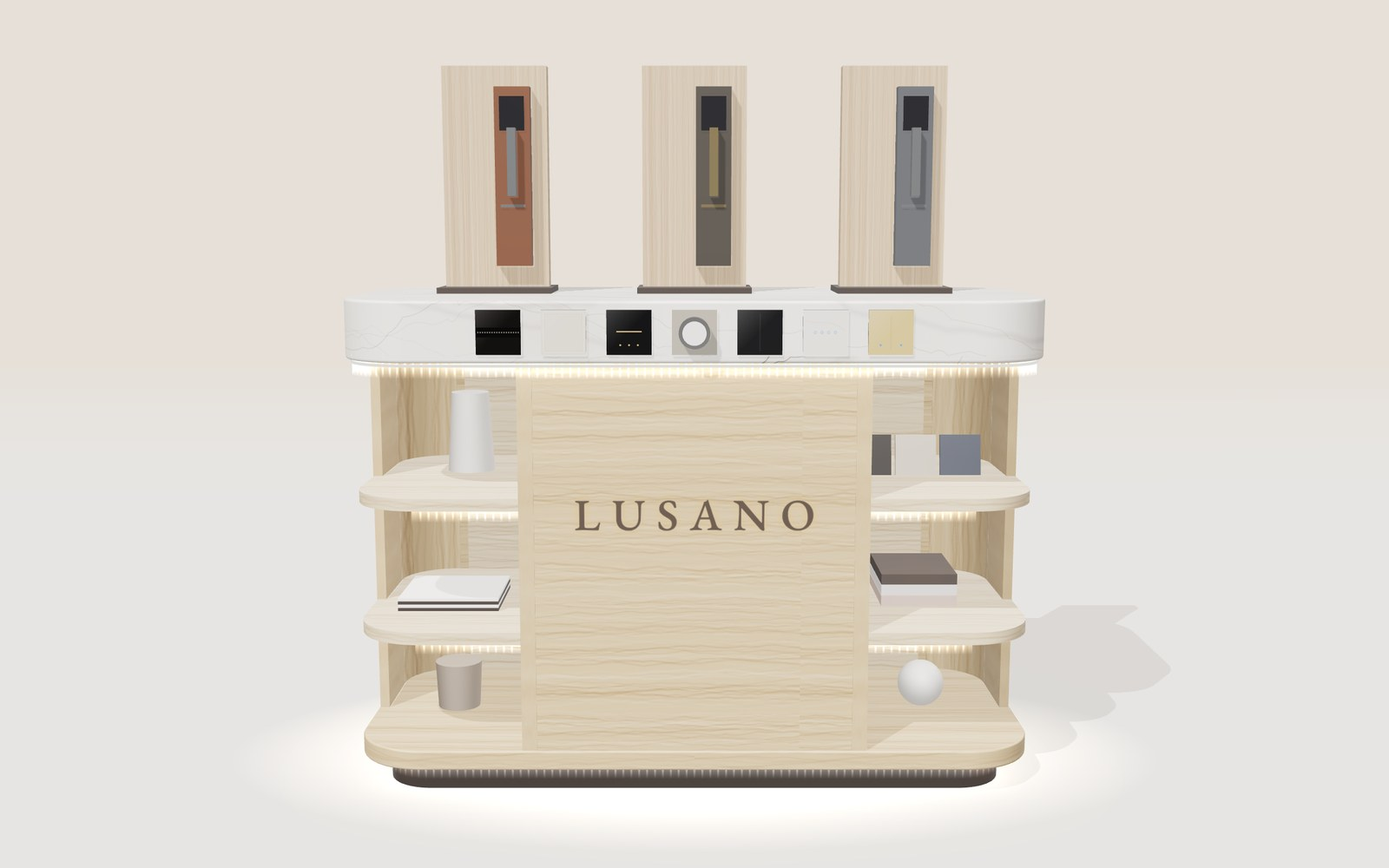
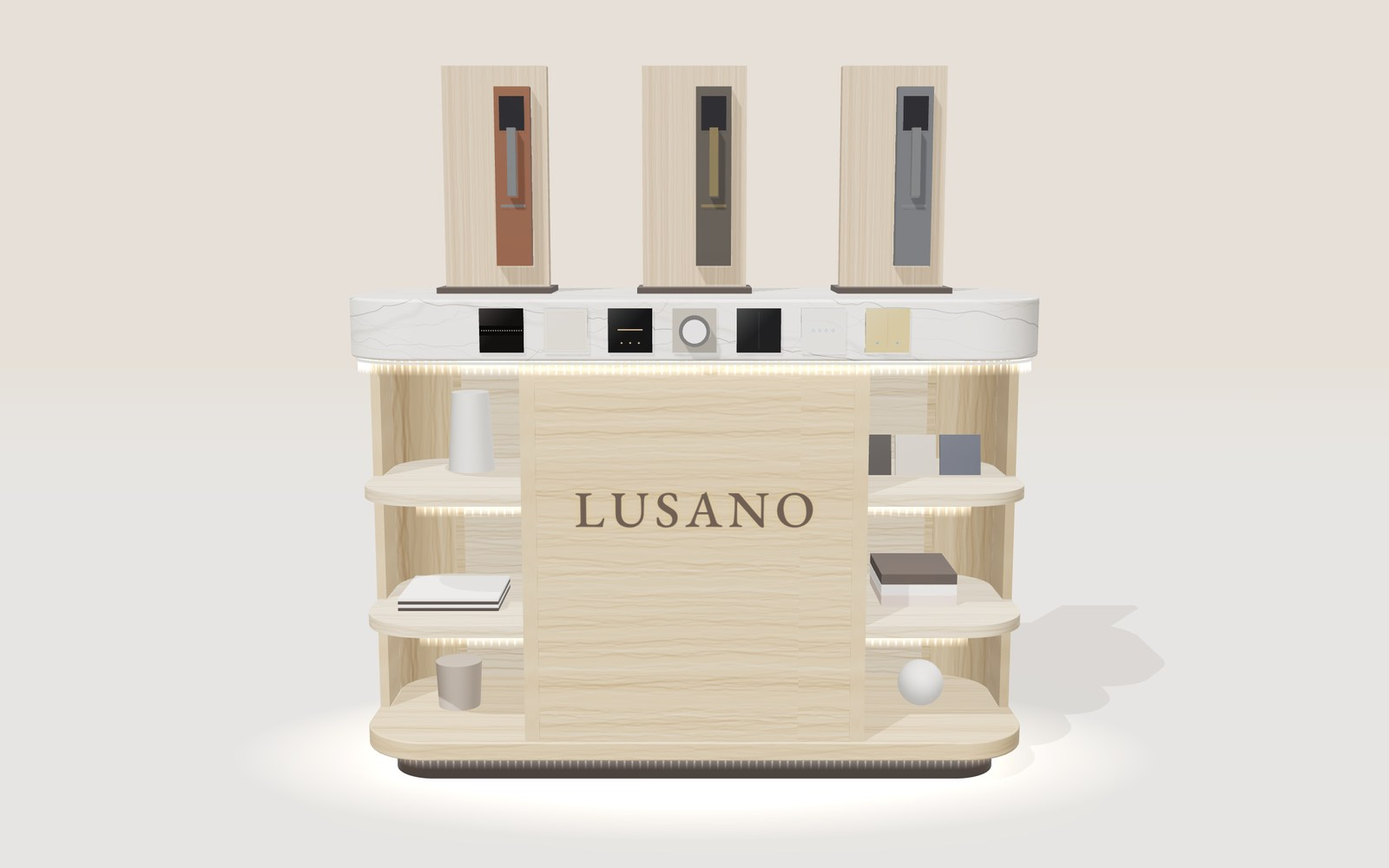
Counter: 500 mm deep, larger LUSANO lettering
Depth goes from 600 to 500 mm. LUSANO now spans 560 mm of the 660 mm
centre panel, with letters about 100 mm tall.

Claude-Session: https://claude.ai/code/session_019F6wLF1dU4g9eZjhze73rB

diff --git a/booth-16x7/table/index.html b/booth-16x7/table/index.html
@@ -73,7 +73,7 @@ text{font-family:var(--sans)}
 .body{fill:var(--bodyc)}
 .inner{fill:var(--innerc)}
 .sw{fill:#29221F;stroke:var(--fg);stroke-width:2}
-.lus{fill:#3A2C24;font-family:var(--serif);font-size:66px;font-weight:500;letter-spacing:18px}
+.lus{fill:#3A2C24;font-family:var(--serif);font-size:120px;font-weight:500}
 .wordlit{fill:#FFE7C2;font-size:58px;font-weight:700;letter-spacing:12px}
 .door{fill:var(--innerc);stroke:var(--fg);stroke-width:2}
 .lockb{fill:#5a2a1b}
@@ -120,7 +120,7 @@ footer{border-top:1px solid var(--rule);padding-top:20px;font-size:13px;color:va
     <h1>The switch counter, <em>in the Maxsen colours.</em></h1>
     <p class="lede">A 1.4 m standing counter with a white marble top: six live smart switches and the Halo dimmer along its front edge, and three Lenovo smart locks on door panels on top. Below, a light wood body with LUSANO in bronze letters, lit from behind, on its closed centre, and identical open shelves curving round both front corners. Addressable RGBCCT LED strips run under the top, under each shelf and under the base.</p>
     <div class="facts">
-      <div><b>1,400 × 600</b><span>length × depth in mm (depth assumed)</span></div>
+      <div><b>1,400 × 500</b><span>length × depth in mm</span></div>
       <div><b>1,000</b><span>height in mm, standing counter</span></div>
       <div><b>6 + Halo</b><span>live switches on the front edge, Halo in the centre</span></div>
       <div><b>RGBCCT IC</b><span>addressable LED: tunable white and full colour</span></div>
@@ -202,10 +202,10 @@ footer{border-top:1px solid var(--rule);padding-top:20px;font-size:13px;color:va
       <h2 id="dwg">To scale, in millimetres</h2>
     </div>
     <div class="drw">
-      <figure class="sheet"><div class="sheet-h"><b>Front</b><span>mm</span></div><div class="scroll"><svg viewBox="-260 -620 2080 1900" class="dwg" role="img" aria-label="Front elevation with dimensions"><rect x="-60" y="1000" width="1520" height="10" class="floor"/><rect x="65" y="940" width="1270" height="58" rx="20" class="bronze"/><rect x="75" y="952" width="1250" height="5" class="led"/><rect x="15" y="120" width="1370" height="820" rx="10" class="body"/><rect x="35" y="140" width="1330" height="760" class="inner"/><rect x="355" y="120" width="30" height="820" class="body"/><rect x="1015" y="120" width="30" height="820" class="body"/><rect x="15" y="900" width="1370" height="40" class="body"/><rect x="385" y="120" width="630" height="820" class="body"/><text x="709" y="440" class="lus" text-anchor="middle">LUSANO</text><rect x="35" y="658" width="320" height="25" class="shelf"/><rect x="1045" y="658" width="340" height="25" rx="6" class="shelf"/><rect x="35" y="388" width="320" height="25" class="shelf"/><rect x="1045" y="388" width="340" height="25" rx="6" class="shelf"/><rect x="0" y="0" width="1400" height="120" rx="8" class="stone"/><rect x="282" y="17" width="86" height="86" rx="4" class="sw"/><rect x="407" y="17" width="86" height="86" rx="4" class="sw"/><rect x="532" y="17" width="86" height="86" rx="4" class="sw"/><rect x="657" y="17" width="86" height="86" rx="4" class="halop"/><circle cx="700" cy="60" r="30" class="halok"/><rect x="782" y="17" width="86" height="86" rx="4" class="sw"/><rect x="907" y="17" width="86" height="86" rx="4" class="sw"/><rect x="1032" y="17" width="86" height="86" rx="4" class="sw"/><rect x="160" y="-12" width="240" height="12" class="bronze"/><rect x="170" y="-472" width="220" height="460" class="door"/><rect x="283" y="-427" width="74" height="370" rx="10" class="lockb"/><rect x="580" y="-12" width="240" height="12" class="bronze"/><rect x="590" y="-472" width="220" height="460" class="door"/><rect x="703" y="-427" width="74" height="370" rx="10" class="lockb"/><rect x="1000" y="-12" width="240" height="12" class="bronze"/><rect x="1010" y="-472" width="220" height="460" class="door"/><rect x="1123" y="-427" width="74" height="370" rx="10" class="lockb"/><rect x="25" y="122" width="1350" height="5" class="led"/><g class="dim"><line x1="0" y1="-560" x2="1400" y2="-560"/><line x1="0" y1="-585" x2="0" y2="-535"/><line x1="1400" y1="-585" x2="1400" y2="-535"/></g><text x="700.0" y="-582" class="td" text-anchor="middle">1,400</text><text x="700" y="1230" class="td" text-anchor="middle">front edge: 6 switches + Halo in the centre</text><g class="dim"><line x1="15" y1="1090" x2="370" y2="1090"/><line x1="15" y1="1065" x2="15" y2="1115"/><line x1="370" y1="1065" x2="370" y2="1115"/></g><text x="192.5" y="1150" class="td" text-anchor="middle">355 curved shelves</text><g class="dim"><line x1="370" y1="1090" x2="1030" y2="1090"/><line x1="370" y1="1065" x2="370" y2="1115"/><line x1="1030" y1="1065" x2="1030" y2="1115"/></g><text x="700.0" y="1150" class="td" text-anchor="middle">660 closed, lit logo</text><g class="dim"><line x1="1030" y1="1090" x2="1385" y2="1090"/><line x1="1030" y1="1065" x2="1030" y2="1115"/><line x1="1385" y1="1065" x2="1385" y2="1115"/></g><text x="1207.5" y="1150" class="td" text-anchor="middle">355 curved shelves</text><g class="dim"><line x1="-60" y1="0" x2="-60" y2="1000"/><line x1="-85" y1="0" x2="-35" y2="0"/><line x1="-85" y1="1000" x2="-35" y2="1000"/></g><text x="-88" y="514.0" class="td" text-anchor="end">1,000</text><g class="dim"><line x1="1460" y1="0" x2="1460" y2="120"/><line x1="1435" y1="0" x2="1485" y2="0"/><line x1="1435" y1="120" x2="1485" y2="120"/></g><text x="1490" y="74.0" class="td" text-anchor="start">120 top</text><text x="1460" y="-300" class="td" text-anchor="start">locks on top</text><g class="dim"><line x1="1460" y1="940" x2="1460" y2="1000"/><line x1="1435" y1="940" x2="1485" y2="940"/><line x1="1435" y1="1000" x2="1485" y2="1000"/></g><text x="1490" y="984.0" class="td" text-anchor="start">60 base</text><text x="1460" y="682" class="td" text-anchor="start">shelf 330</text><text x="1460" y="412" class="td" text-anchor="start">shelf 600</text></svg></div></figure>
-      <figure class="sheet"><div class="sheet-h"><b>End</b><span>mm</span></div><div class="scroll"><svg viewBox="-260 -620 1000 1840" class="dwg narrow" role="img" aria-label="End elevation"><rect x="-60" y="1000" width="720" height="10" class="floor"/><rect x="65" y="940" width="470" height="58" rx="20" class="bronze"/><rect x="75" y="952" width="450" height="5" class="led"/><rect x="15" y="120" width="570" height="820" rx="10" class="body"/><rect x="0" y="0" width="600" height="120" rx="8" class="stone"/><rect x="25" y="122" width="550" height="5" class="led"/><rect x="164" y="-12" width="160" height="12" class="bronze"/><rect x="226" y="-472" width="36" height="460" class="door"/><rect x="262" y="-427" width="32" height="370" class="lockb"/><rect x="600" y="17" width="6" height="86" class="sw"/><g class="dim"><line x1="0" y1="-560" x2="600" y2="-560"/><line x1="0" y1="-585" x2="0" y2="-535"/><line x1="600" y1="-585" x2="600" y2="-535"/></g><text x="300.0" y="-582" class="td" text-anchor="middle">600 (to confirm)</text><g class="dim"><line x1="-60" y1="0" x2="-60" y2="1000"/><line x1="-85" y1="0" x2="-35" y2="0"/><line x1="-85" y1="1000" x2="-35" y2="1000"/></g><text x="-88" y="514.0" class="td" text-anchor="end">1,000</text><rect x="300" y="120" width="285" height="820" class="inner"/><rect x="300" y="658" width="285" height="25" rx="6" class="shelf"/><rect x="300" y="388" width="285" height="25" rx="6" class="shelf"/><text x="158" y="500" class="td" text-anchor="middle">closed</text><text x="442" y="220" class="td" text-anchor="middle">open shelves</text></svg></div></figure>
+      <figure class="sheet"><div class="sheet-h"><b>Front</b><span>mm</span></div><div class="scroll"><svg viewBox="-260 -620 2080 1900" class="dwg" role="img" aria-label="Front elevation with dimensions"><rect x="-60" y="1000" width="1520" height="10" class="floor"/><rect x="65" y="940" width="1270" height="58" rx="20" class="bronze"/><rect x="75" y="952" width="1250" height="5" class="led"/><rect x="15" y="120" width="1370" height="820" rx="10" class="body"/><rect x="35" y="140" width="1330" height="760" class="inner"/><rect x="355" y="120" width="30" height="820" class="body"/><rect x="1015" y="120" width="30" height="820" class="body"/><rect x="15" y="900" width="1370" height="40" class="body"/><rect x="385" y="120" width="630" height="820" class="body"/><text x="420" y="460" class="lus" textLength="560" lengthAdjust="spacing">LUSANO</text><rect x="35" y="658" width="320" height="25" class="shelf"/><rect x="1045" y="658" width="340" height="25" rx="6" class="shelf"/><rect x="35" y="388" width="320" height="25" class="shelf"/><rect x="1045" y="388" width="340" height="25" rx="6" class="shelf"/><rect x="0" y="0" width="1400" height="120" rx="8" class="stone"/><rect x="282" y="17" width="86" height="86" rx="4" class="sw"/><rect x="407" y="17" width="86" height="86" rx="4" class="sw"/><rect x="532" y="17" width="86" height="86" rx="4" class="sw"/><rect x="657" y="17" width="86" height="86" rx="4" class="halop"/><circle cx="700" cy="60" r="30" class="halok"/><rect x="782" y="17" width="86" height="86" rx="4" class="sw"/><rect x="907" y="17" width="86" height="86" rx="4" class="sw"/><rect x="1032" y="17" width="86" height="86" rx="4" class="sw"/><rect x="160" y="-12" width="240" height="12" class="bronze"/><rect x="170" y="-472" width="220" height="460" class="door"/><rect x="283" y="-427" width="74" height="370" rx="10" class="lockb"/><rect x="580" y="-12" width="240" height="12" class="bronze"/><rect x="590" y="-472" width="220" height="460" class="door"/><rect x="703" y="-427" width="74" height="370" rx="10" class="lockb"/><rect x="1000" y="-12" width="240" height="12" class="bronze"/><rect x="1010" y="-472" width="220" height="460" class="door"/><rect x="1123" y="-427" width="74" height="370" rx="10" class="lockb"/><rect x="25" y="122" width="1350" height="5" class="led"/><g class="dim"><line x1="0" y1="-560" x2="1400" y2="-560"/><line x1="0" y1="-585" x2="0" y2="-535"/><line x1="1400" y1="-585" x2="1400" y2="-535"/></g><text x="700.0" y="-582" class="td" text-anchor="middle">1,400</text><text x="700" y="1230" class="td" text-anchor="middle">front edge: 6 switches + Halo in the centre</text><g class="dim"><line x1="15" y1="1090" x2="370" y2="1090"/><line x1="15" y1="1065" x2="15" y2="1115"/><line x1="370" y1="1065" x2="370" y2="1115"/></g><text x="192.5" y="1150" class="td" text-anchor="middle">355 curved shelves</text><g class="dim"><line x1="370" y1="1090" x2="1030" y2="1090"/><line x1="370" y1="1065" x2="370" y2="1115"/><line x1="1030" y1="1065" x2="1030" y2="1115"/></g><text x="700.0" y="1150" class="td" text-anchor="middle">660 closed, lit logo</text><g class="dim"><line x1="1030" y1="1090" x2="1385" y2="1090"/><line x1="1030" y1="1065" x2="1030" y2="1115"/><line x1="1385" y1="1065" x2="1385" y2="1115"/></g><text x="1207.5" y="1150" class="td" text-anchor="middle">355 curved shelves</text><g class="dim"><line x1="-60" y1="0" x2="-60" y2="1000"/><line x1="-85" y1="0" x2="-35" y2="0"/><line x1="-85" y1="1000" x2="-35" y2="1000"/></g><text x="-88" y="514.0" class="td" text-anchor="end">1,000</text><g class="dim"><line x1="1460" y1="0" x2="1460" y2="120"/><line x1="1435" y1="0" x2="1485" y2="0"/><line x1="1435" y1="120" x2="1485" y2="120"/></g><text x="1490" y="74.0" class="td" text-anchor="start">120 top</text><text x="1460" y="-300" class="td" text-anchor="start">locks on top</text><g class="dim"><line x1="1460" y1="940" x2="1460" y2="1000"/><line x1="1435" y1="940" x2="1485" y2="940"/><line x1="1435" y1="1000" x2="1485" y2="1000"/></g><text x="1490" y="984.0" class="td" text-anchor="start">60 base</text><text x="1460" y="682" class="td" text-anchor="start">shelf 330</text><text x="1460" y="412" class="td" text-anchor="start">shelf 600</text></svg></div></figure>
+      <figure class="sheet"><div class="sheet-h"><b>End</b><span>mm</span></div><div class="scroll"><svg viewBox="-260 -620 900 1840" class="dwg narrow" role="img" aria-label="End elevation: 500 deep, closed at the back, open shelves at the front"><rect x="-60" y="1000" width="620" height="10" class="floor"/><rect x="65" y="940" width="370" height="58" rx="20" class="bronze"/><rect x="75" y="952" width="350" height="5" class="led"/><rect x="15" y="120" width="470" height="820" rx="10" class="body"/><rect x="250" y="120" width="235" height="820" class="inner"/><rect x="0" y="0" width="500" height="120" rx="8" class="stone"/><rect x="25" y="122" width="450" height="5" class="led"/><rect x="110" y="-12" width="160" height="12" class="bronze"/><rect x="172" y="-472" width="36" height="460" class="door"/><rect x="208" y="-427" width="32" height="370" class="lockb"/><rect x="500" y="17" width="6" height="86" class="sw"/><rect x="250" y="658" width="235" height="25" rx="6" class="shelf"/><rect x="250" y="388" width="235" height="25" rx="6" class="shelf"/><text x="132" y="500" class="td" text-anchor="middle">closed</text><text x="368" y="220" class="td" text-anchor="middle">open</text><g class="dim"><line x1="0" y1="-560" x2="500" y2="-560"/><line x1="0" y1="-585" x2="0" y2="-535"/><line x1="500" y1="-585" x2="500" y2="-535"/></g><text x="250.0" y="-582" class="td" text-anchor="middle">500</text><g class="dim"><line x1="-60" y1="0" x2="-60" y2="1000"/><line x1="-85" y1="0" x2="-35" y2="0"/><line x1="-85" y1="1000" x2="-35" y2="1000"/></g><text x="-88" y="514.0" class="td" text-anchor="end">1,000</text></svg></div></figure>
     </div>
-    <figure class="sheet"><div class="sheet-h"><b>Plan from above</b><span>front at the bottom</span></div><div class="scroll"><svg viewBox="-260 -150 2080 870" class="dwg" role="img" aria-label="Plan from above: three locks on door panels on the top, with the switches on the front edge"><rect x="0" y="0" width="1400" height="600" rx="150" class="stone"/><rect x="160" y="280" width="240" height="160" class="bronze"/><rect x="170" y="342" width="220" height="36" class="door"/><rect x="283" y="378" width="74" height="32" class="lockb"/><rect x="580" y="280" width="240" height="160" class="bronze"/><rect x="590" y="342" width="220" height="36" class="door"/><rect x="703" y="378" width="74" height="32" class="lockb"/><rect x="1000" y="280" width="240" height="160" class="bronze"/><rect x="1010" y="342" width="220" height="36" class="door"/><rect x="1123" y="378" width="74" height="32" class="lockb"/><rect x="282" y="600" width="86" height="8" class="sw"/><rect x="407" y="600" width="86" height="8" class="sw"/><rect x="532" y="600" width="86" height="8" class="sw"/><rect x="657" y="600" width="86" height="8" class="halop"/><rect x="782" y="600" width="86" height="8" class="sw"/><rect x="907" y="600" width="86" height="8" class="sw"/><rect x="1032" y="600" width="86" height="8" class="sw"/><text x="700" y="200" class="td" text-anchor="middle">3 Lenovo locks on door panels</text><text x="700" y="680" class="tz" text-anchor="middle">FRONT EDGE · 6 SWITCHES + HALO</text><g class="dim"><line x1="0" y1="-70" x2="1400" y2="-70"/><line x1="0" y1="-95" x2="0" y2="-45"/><line x1="1400" y1="-95" x2="1400" y2="-45"/></g><text x="700.0" y="-92" class="td" text-anchor="middle">1,400</text><g class="dim"><line x1="-60" y1="0" x2="-60" y2="600"/><line x1="-85" y1="0" x2="-35" y2="0"/><line x1="-85" y1="600" x2="-35" y2="600"/></g><text x="-88" y="314.0" class="td" text-anchor="end">600</text><path d="M1400 150 A150 150 0 0 0 1250 0" class="radius"/><text x="1430" y="80" class="td" text-anchor="start">R150</text></svg></div></figure>
+    <figure class="sheet"><div class="sheet-h"><b>Plan from above</b><span>front at the bottom</span></div><div class="scroll"><svg viewBox="-260 -150 2080 780" class="dwg" role="img" aria-label="Plan from above: 1,400 by 500, three locks on door panels on the top, with the switches on the front edge"><rect x="0" y="0" width="1400" height="500" rx="150" class="stone"/><rect x="160" y="110" width="240" height="160" class="bronze"/><rect x="170" y="172" width="220" height="36" class="door"/><rect x="283" y="208" width="74" height="32" class="lockb"/><rect x="580" y="110" width="240" height="160" class="bronze"/><rect x="590" y="172" width="220" height="36" class="door"/><rect x="703" y="208" width="74" height="32" class="lockb"/><rect x="1000" y="110" width="240" height="160" class="bronze"/><rect x="1010" y="172" width="220" height="36" class="door"/><rect x="1123" y="208" width="74" height="32" class="lockb"/><rect x="282" y="500" width="86" height="8" class="sw"/><rect x="407" y="500" width="86" height="8" class="sw"/><rect x="532" y="500" width="86" height="8" class="sw"/><rect x="657" y="500" width="86" height="8" class="halop"/><rect x="782" y="500" width="86" height="8" class="sw"/><rect x="907" y="500" width="86" height="8" class="sw"/><rect x="1032" y="500" width="86" height="8" class="sw"/><text x="700" y="75" class="td" text-anchor="middle">3 Lenovo locks on door panels</text><text x="700" y="580" class="tz" text-anchor="middle">FRONT EDGE · 6 SWITCHES + HALO</text><g class="dim"><line x1="0" y1="-70" x2="1400" y2="-70"/><line x1="0" y1="-95" x2="0" y2="-45"/><line x1="1400" y1="-95" x2="1400" y2="-45"/></g><text x="700.0" y="-92" class="td" text-anchor="middle">1,400</text><g class="dim"><line x1="-60" y1="0" x2="-60" y2="500"/><line x1="-85" y1="0" x2="-35" y2="0"/><line x1="-85" y1="500" x2="-35" y2="500"/></g><text x="-88" y="264.0" class="td" text-anchor="end">500</text><path d="M1400 150 A150 150 0 0 0 1250 0" class="radius"/><text x="1430" y="80" class="td" text-anchor="start">R150</text></svg></div></figure>
   </section>
 
   <section aria-labelledby="spec">
@@ -217,7 +217,7 @@ footer{border-top:1px solid var(--rule);padding-top:20px;font-size:13px;color:va
       <div>
         <h3>Top</h3>
         <ul class="plain">
-          <li>1,400 × 600, 150 mm corner radius, 120 mm thick with a crisp, slightly eased edge.</li>
+          <li>1,400 × 500, 150 mm corner radius, 120 mm thick with a crisp, slightly eased edge.</li>
           <li>White marble, or marble-look sintered stone, 12 mm on a plywood core with a built-up edge, so it stays liftable. Real marble needs sealing against stains.</li>
           <li>Seven cut-outs on the front edge, 125 mm apart and centred 60 mm below the top surface: six 86-type smart switches with the Halo dimmer in the middle. Back boxes sit inside the top's core; wiring runs down through the centre.</li>
           <li>Three lock displays on top: a 220 × 460 mm door panel on a bronze foot, each with a Lenovo smart lock fitted as on a real door. Bolt the feet through the top so they can't be knocked over.</li>
@@ -226,7 +226,7 @@ footer{border-top:1px solid var(--rule);padding-top:20px;font-size:13px;color:va
         <ul class="plain">
           <li>Plywood with a light wood veneer, such as white oak or ash, outside and inside the bays.</li>
           <li>Both end bays are identical: open, with two shelves that curve round the front corner, at 330 and 600. Only the back half of each end is closed.</li>
-          <li>Centre: closed with a removable light wood panel, 660 wide. LUSANO in bronze-finish letters, about 600 mm wide, stood 15 mm off the panel with a warm LED behind them, so they glow at the edges (halo lighting).</li>
+          <li>Centre: closed with a removable light wood panel, 660 wide. LUSANO in bronze-finish letters, 560 mm wide with letters about 100 mm tall, stood 15 mm off the panel with a warm LED behind them, so they glow at the edges (halo lighting).</li>
         </ul>
       </div>
       <div>
@@ -252,7 +252,7 @@ footer{border-top:1px solid var(--rule);padding-top:20px;font-size:13px;color:va
       <h2 id="conf">Four things to check</h2>
     </div>
     <div class="confirm">
-      <div><b>Depth</b><span>Still assumed at 600 mm. The locks need about 160 mm of depth each; anything from 500 mm works.</span></div>
+      <div><b>Depth</b><span>Now 500 mm, as you asked. The lock feet take 160 mm of it and sit just behind the middle, leaving room to lean on the front.</span></div>
       <div><b>Which switches and locks</b><span>Shown: Lusano Prestige, Lusano Noble, two Nova+ Pro, Folio and Ark, with Halo in the centre; and three F3 Ultra locks. Swap in any you prefer, or a gate lock.</span></div>
       <div><b>Panel width</b><span>The closed centre is 660 mm wide, which keeps the shelf bays usable either side. Widening it to about 1 m would leave the end bays too narrow for shelves on a 1.4 m counter.</span></div>
       <div><b>Where it goes in the booth</b><span>It could replace the two round tables as one consult counter, or sit beside them. Tell me and I'll add it to the booth plan.</span></div>
@@ -270,7 +270,7 @@ footer{border-top:1px solid var(--rule);padding-top:20px;font-size:13px;color:va
    1,400 long, 600 deep (assumed), 1,000 high. Units are metres: x along the length,
    z from the back (-) to the front (+), y up. */
 window.MaxsenTable = (function () {
-  const L = 1.4, D = 0.6, H = 1.0;
+  const L = 1.4, D = 0.5, H = 1.0;
   const TOP = 0.12, R = 0.15;              // a 120 mm stone top with 150 mm corners; switches sit on its front edge
   const OV = 0.015;                        // the top overhangs the body by 15 mm
   const BL = L - 2 * OV, BD = D - 2 * OV, BR = R - OV;
@@ -494,13 +494,13 @@ window.MaxsenTable = (function () {
     // the closed centre: a light wood panel with LUSANO in bronze letters, lit from behind
     add(new THREE.BoxGeometry(2 * DIV - .03, wallH, T), bodyMat, 0, Y0 + .04 + wallH / 2, BD / 2 - T / 2);
     {
-      const word = 'LUSANO', fs = 250, ls = 64;
+      const word = 'LUSANO', fs = 300, ls = 34;
       const [mc, mg] = canvas(1700, 300); mg.font = `500 ${fs}px "EB Garamond", Garamond, Georgia, serif`;
       if (mg.letterSpacing !== undefined) mg.letterSpacing = ls + 'px';
       mg.textAlign = 'center'; mg.textBaseline = 'middle'; mg.fillStyle = '#fff'; mg.fillText(word, 850 + ls / 2, 160);
       const [gc, gg] = canvas(1700, 300); gg.shadowColor = 'rgba(255,205,140,1)'; gg.shadowBlur = 40;
       for (let k = 0; k < 3; k++) gg.drawImage(mc, 0, 0);
-      const w = .6, h = w * 300 / 1700, y = .58, zf = BD / 2 + .002;
+      const tw = mg.measureText(word).width + ls * word.length, w = .56 * 1700 / tw, h = w * 300 / 1700, y = .58, zf = BD / 2 + .002; // letters span 560 of the 630 mm panel
       const glow = new THREE.Mesh(new THREE.PlaneGeometry(w, h), new THREE.MeshBasicMaterial({ map: new THREE.CanvasTexture(gc), transparent: true, depthWrite: false, opacity: night ? .95 : .6, color: night ? 0xffcf96 : 0xf2b46a, blending: night ? THREE.AdditiveBlending : THREE.NormalBlending }));
       glow.position.set(0, y, zf); scene.add(glow);
       const face = new THREE.Mesh(new THREE.PlaneGeometry(w, h), new THREE.MeshStandardMaterial({ map: new THREE.CanvasTexture(mc), transparent: true, color: 0x3A2C24, roughness: .35, metalness: .55, envMapIntensity: night ? .2 : .5 }));

diff --git a/booth-16x7/table/src/template2.html b/booth-16x7/table/src/template2.html
@@ -73,7 +73,7 @@ text{font-family:var(--sans)}
 .body{fill:var(--bodyc)}
 .inner{fill:var(--innerc)}
 .sw{fill:#29221F;stroke:var(--fg);stroke-width:2}
-.lus{fill:#3A2C24;font-family:var(--serif);font-size:66px;font-weight:500;letter-spacing:18px}
+.lus{fill:#3A2C24;font-family:var(--serif);font-size:120px;font-weight:500}
 .wordlit{fill:#FFE7C2;font-size:58px;font-weight:700;letter-spacing:12px}
 .door{fill:var(--innerc);stroke:var(--fg);stroke-width:2}
 .lockb{fill:#5a2a1b}
@@ -120,7 +120,7 @@ footer{border-top:1px solid var(--rule);padding-top:20px;font-size:13px;color:va
     <h1>The switch counter, <em>in the Maxsen colours.</em></h1>
     <p class="lede">A 1.4 m standing counter with a white marble top: six live smart switches and the Halo dimmer along its front edge, and three Lenovo smart locks on door panels on top. Below, a light wood body with LUSANO in bronze letters, lit from behind, on its closed centre, and identical open shelves curving round both front corners. Addressable RGBCCT LED strips run under the top, under each shelf and under the base.</p>
     <div class="facts">
-      <div><b>1,400 × 600</b><span>length × depth in mm (depth assumed)</span></div>
+      <div><b>1,400 × 500</b><span>length × depth in mm</span></div>
       <div><b>1,000</b><span>height in mm, standing counter</span></div>
       <div><b>6 + Halo</b><span>live switches on the front edge, Halo in the centre</span></div>
       <div><b>RGBCCT IC</b><span>addressable LED: tunable white and full colour</span></div>
@@ -217,7 +217,7 @@ footer{border-top:1px solid var(--rule);padding-top:20px;font-size:13px;color:va
       <div>
         <h3>Top</h3>
         <ul class="plain">
-          <li>1,400 × 600, 150 mm corner radius, 120 mm thick with a crisp, slightly eased edge.</li>
+          <li>1,400 × 500, 150 mm corner radius, 120 mm thick with a crisp, slightly eased edge.</li>
           <li>White marble, or marble-look sintered stone, 12 mm on a plywood core with a built-up edge, so it stays liftable. Real marble needs sealing against stains.</li>
           <li>Seven cut-outs on the front edge, 125 mm apart and centred 60 mm below the top surface: six 86-type smart switches with the Halo dimmer in the middle. Back boxes sit inside the top's core; wiring runs down through the centre.</li>
           <li>Three lock displays on top: a 220 × 460 mm door panel on a bronze foot, each with a Lenovo smart lock fitted as on a real door. Bolt the feet through the top so they can't be knocked over.</li>
@@ -226,7 +226,7 @@ footer{border-top:1px solid var(--rule);padding-top:20px;font-size:13px;color:va
         <ul class="plain">
           <li>Plywood with a light wood veneer, such as white oak or ash, outside and inside the bays.</li>
           <li>Both end bays are identical: open, with two shelves that curve round the front corner, at 330 and 600. Only the back half of each end is closed.</li>
-          <li>Centre: closed with a removable light wood panel, 660 wide. LUSANO in bronze-finish letters, about 600 mm wide, stood 15 mm off the panel with a warm LED behind them, so they glow at the edges (halo lighting).</li>
+          <li>Centre: closed with a removable light wood panel, 660 wide. LUSANO in bronze-finish letters, 560 mm wide with letters about 100 mm tall, stood 15 mm off the panel with a warm LED behind them, so they glow at the edges (halo lighting).</li>
         </ul>
       </div>
       <div>
@@ -252,7 +252,7 @@ footer{border-top:1px solid var(--rule);padding-top:20px;font-size:13px;color:va
       <h2 id="conf">Four things to check</h2>
     </div>
     <div class="confirm">
-      <div><b>Depth</b><span>Still assumed at 600 mm. The locks need about 160 mm of depth each; anything from 500 mm works.</span></div>
+      <div><b>Depth</b><span>Now 500 mm, as you asked. The lock feet take 160 mm of it and sit just behind the middle, leaving room to lean on the front.</span></div>
       <div><b>Which switches and locks</b><span>Shown: Lusano Prestige, Lusano Noble, two Nova+ Pro, Folio and Ark, with Halo in the centre; and three F3 Ultra locks. Swap in any you prefer, or a gate lock.</span></div>
       <div><b>Panel width</b><span>The closed centre is 660 mm wide, which keeps the shelf bays usable either side. Widening it to about 1 m would leave the end bays too narrow for shelves on a 1.4 m counter.</span></div>
       <div><b>Where it goes in the booth</b><span>It could replace the two round tables as one consult counter, or sit beside them. Tell me and I'll add it to the booth plan.</span></div>

diff --git a/booth-16x7/table/src/table2.js b/booth-16x7/table/src/table2.js
@@ -2,7 +2,7 @@
    1,400 long, 600 deep (assumed), 1,000 high. Units are metres: x along the length,
    z from the back (-) to the front (+), y up. */
 window.MaxsenTable = (function () {
-  const L = 1.4, D = 0.6, H = 1.0;
+  const L = 1.4, D = 0.5, H = 1.0;
   const TOP = 0.12, R = 0.15;              // a 120 mm stone top with 150 mm corners; switches sit on its front edge
   const OV = 0.015;                        // the top overhangs the body by 15 mm
   const BL = L - 2 * OV, BD = D - 2 * OV, BR = R - OV;
@@ -226,13 +226,13 @@ window.MaxsenTable = (function () {
     // the closed centre: a light wood panel with LUSANO in bronze letters, lit from behind
     add(new THREE.BoxGeometry(2 * DIV - .03, wallH, T), bodyMat, 0, Y0 + .04 + wallH / 2, BD / 2 - T / 2);
     {
-      const word = 'LUSANO', fs = 250, ls = 64;
+      const word = 'LUSANO', fs = 300, ls = 34;
       const [mc, mg] = canvas(1700, 300); mg.font = `500 ${fs}px "EB Garamond", Garamond, Georgia, serif`;
       if (mg.letterSpacing !== undefined) mg.letterSpacing = ls + 'px';
       mg.textAlign = 'center'; mg.textBaseline = 'middle'; mg.fillStyle = '#fff'; mg.fillText(word, 850 + ls / 2, 160);
       const [gc, gg] = canvas(1700, 300); gg.shadowColor = 'rgba(255,205,140,1)'; gg.shadowBlur = 40;
       for (let k = 0; k < 3; k++) gg.drawImage(mc, 0, 0);
-      const w = .6, h = w * 300 / 1700, y = .58, zf = BD / 2 + .002;
+      const tw = mg.measureText(word).width + ls * word.length, w = .56 * 1700 / tw, h = w * 300 / 1700, y = .58, zf = BD / 2 + .002; // letters span 560 of the 630 mm panel
       const glow = new THREE.Mesh(new THREE.PlaneGeometry(w, h), new THREE.MeshBasicMaterial({ map: new THREE.CanvasTexture(gc), transparent: true, depthWrite: false, opacity: night ? .95 : .6, color: night ? 0xffcf96 : 0xf2b46a, blending: night ? THREE.AdditiveBlending : THREE.NormalBlending }));
       glow.position.set(0, y, zf); scene.add(glow);
       const face = new THREE.Mesh(new THREE.PlaneGeometry(w, h), new THREE.MeshStandardMaterial({ map: new THREE.CanvasTexture(mc), transparent: true, color: 0x3A2C24, roughness: .35, metalness: .55, envMapIntensity: night ? .2 : .5 }));

diff --git a/booth-16x7/table/src/drawings2.py b/booth-16x7/table/src/drawings2.py
@@ -20,7 +20,7 @@ for x in (370, 1030):
     f.append(f'<rect x="{x-15}" y="{sv(880)}" width="30" height="820" class="body"/>')
 f.append(f'<rect x="15" y="{sv(100)}" width="1370" height="40" class="body"/>')
 f.append(f'<rect x="385" y="{sv(880)}" width="630" height="820" class="body"/>')
-f.append(t(709, sv(560), "LUSANO", "lus"))
+f.append(f'<text x="420" y="{sv(540)}" class="lus" textLength="560" lengthAdjust="spacing">LUSANO</text>')
 for h in SH:
     f.append(f'<rect x="35" y="{sv(h+12)}" width="320" height="25" class="shelf"/>')
     f.append(f'<rect x="1045" y="{sv(h+12)}" width="340" height="25" rx="6" class="shelf"/>')
@@ -46,38 +46,37 @@ for h in SH:
     f.append(t(1460, sv(h) + 12, f"shelf {h}", "td", "start"))
 front = f'<svg viewBox="-260 -620 2080 1900" class="dwg" role="img" aria-label="Front elevation with dimensions">{"".join(f)}</svg>'
 
-# end: z from 0 (back) to 600 (front)
-e = [f'<rect x="-60" y="{H}" width="720" height="10" class="floor"/>',
-     f'<rect x="65" y="{sv(60)}" width="470" height="58" rx="20" class="bronze"/>',
-     f'<rect x="75" y="{sv(48)}" width="450" height="5" class="led"/>',
-     f'<rect x="15" y="{sv(880)}" width="570" height="820" rx="10" class="body"/>',
-     f'<rect x="0" y="{sv(1000)}" width="600" height="120" rx="8" class="stone"/>',
-     f'<rect x="25" y="{sv(880)+2}" width="550" height="5" class="led"/>',
-     f'<rect x="164" y="{sv(1012)}" width="160" height="12" class="bronze"/><rect x="226" y="{sv(1472)}" width="36" height="460" class="door"/><rect x="262" y="{sv(1427)}" width="32" height="370" class="lockb"/>',
-     f'<rect x="600" y="{sv(983)}" width="6" height="86" class="sw"/>']
-e.append(hdim(0, 600, -560, "600 (to confirm)"))
-e.append(vdim(-60, 0, H, "1,000"))
-e.append(f'<rect x="300" y="{sv(880)}" width="285" height="820" class="inner"/>')
+# end: z from 0 (back) to 500 (front)
+e = [f'<rect x="-60" y="{H}" width="620" height="10" class="floor"/>',
+     f'<rect x="65" y="{sv(60)}" width="370" height="58" rx="20" class="bronze"/>',
+     f'<rect x="75" y="{sv(48)}" width="350" height="5" class="led"/>',
+     f'<rect x="15" y="{sv(880)}" width="470" height="820" rx="10" class="body"/>',
+     f'<rect x="250" y="{sv(880)}" width="235" height="820" class="inner"/>',
+     f'<rect x="0" y="{sv(1000)}" width="500" height="120" rx="8" class="stone"/>',
+     f'<rect x="25" y="{sv(880)+2}" width="450" height="5" class="led"/>',
+     f'<rect x="110" y="{sv(1012)}" width="160" height="12" class="bronze"/><rect x="172" y="{sv(1472)}" width="36" height="460" class="door"/><rect x="208" y="{sv(1427)}" width="32" height="370" class="lockb"/>',
+     f'<rect x="500" y="{sv(983)}" width="6" height="86" class="sw"/>']
 for h in (330, 600):
-    e.append(f'<rect x="300" y="{sv(h+12)}" width="285" height="25" rx="6" class="shelf"/>')
-e.append(t(158, sv(500), "closed", "td"))
-e.append(t(442, sv(780), "open shelves", "td"))
-end = f'<svg viewBox="-260 -620 1000 1840" class="dwg narrow" role="img" aria-label="End elevation">{"".join(e)}</svg>'
+    e.append(f'<rect x="250" y="{sv(h+12)}" width="235" height="25" rx="6" class="shelf"/>')
+e.append(t(132, sv(500), "closed", "td"))
+e.append(t(368, sv(780), "open", "td"))
+e.append(hdim(0, 500, -560, "500"))
+e.append(vdim(-60, 0, H, "1,000"))
+end = f'<svg viewBox="-260 -620 900 1840" class="dwg narrow" role="img" aria-label="End elevation: 500 deep, closed at the back, open shelves at the front">{"".join(e)}</svg>'
 
 # plan: top down, front at the bottom
-p = [f'<rect x="0" y="0" width="1400" height="600" rx="150" class="stone"/>',
-]
+p = [f'<rect x="0" y="0" width="1400" height="500" rx="150" class="stone"/>']
 for x in (280, 700, 1120):
-    p.append(f'<rect x="{x-120}" y="{360-80}" width="240" height="160" class="bronze"/><rect x="{x-110}" y="{360-18}" width="220" height="36" class="door"/><rect x="{x+3}" y="{360+18}" width="74" height="32" class="lockb"/>')
+    p.append(f'<rect x="{x-120}" y="110" width="240" height="160" class="bronze"/><rect x="{x-110}" y="172" width="220" height="36" class="door"/><rect x="{x+3}" y="208" width="74" height="32" class="lockb"/>')
 for x in (325, 450, 575, 700, 825, 950, 1075):
-    p.append(f'<rect x="{x-43}" y="600" width="86" height="8" class="{"halop" if x == 700 else "sw"}"/>')
-p.append(t(700, 200, "3 Lenovo locks on door panels", "td"))
-p.append(t(700, 680, "FRONT EDGE · 6 SWITCHES + HALO", "tz"))
+    p.append(f'<rect x="{x-43}" y="500" width="86" height="8" class="{"halop" if x == 700 else "sw"}"/>')
+p.append(t(700, 75, "3 Lenovo locks on door panels", "td"))
+p.append(t(700, 580, "FRONT EDGE · 6 SWITCHES + HALO", "tz"))
 p.append(hdim(0, 1400, -70, "1,400"))
-p.append(vdim(-60, 0, 600, "600"))
+p.append(vdim(-60, 0, 500, "500"))
 p.append('<path d="M1400 150 A150 150 0 0 0 1250 0" class="radius"/>')
 p.append(t(1430, 80, "R150", "td", "start"))
-plan = f'<svg viewBox="-260 -150 2080 870" class="dwg" role="img" aria-label="Plan from above: three locks on door panels on the top, with the switches on the front edge">{"".join(p)}</svg>'
+plan = f'<svg viewBox="-260 -150 2080 780" class="dwg" role="img" aria-label="Plan from above: 1,400 by 500, three locks on door panels on the top, with the switches on the front edge">{"".join(p)}</svg>'
 
 html = open(sys.argv[1]).read()
 html = html.replace("{{FRONT}}", front).replace("{{END}}", end).replace("{{PLAN}}", plan).replace("{{SCENE}}", open("table2.js").read())
